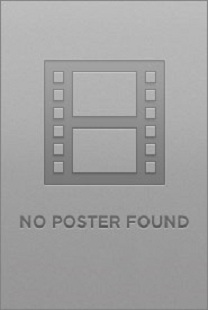
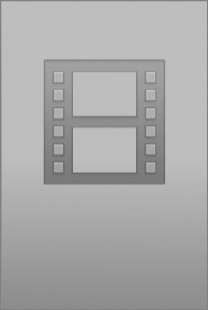
For some reason some of the changes from last checkin didn't take effect. Re-applying them now. Added some media queries to make the video tiles look better on smaller devices.

diff --git a/css/style.css b/css/style.css
@@ -45,36 +45,6 @@ body{
     position:relative;
 }
 
-.tile{
-    display:inline-block;
-    float:left;
-    border:2px solid white;
-    cursor:pointer;
-    margin: 10px;
-    width:205px;
-    height:350px;
-    overflow:hidden;
-    padding:2px;
-    border: 5px solid transparent;
-}
-
-.tile img{
-    /* cursor:pointer; */
-    border:0px solid white;
-    width: 100%;
-}
-.tile:hover{
-    background-color:#CCCCCC;
-    border-left:5px solid #CCCCCC;
-    border-right:5px solid #CCCCCC;
-
-}
-.tile span{
-    display:block;
-    font-size:20px;
-    text-align:center;
-}
-
 .radio{
     padding-left:0px;
 }
@@ -274,3 +244,104 @@ label{
 #videoInfoMainPoster{
     width:200px;
 }
+
+
+
+#video-container{
+    margin-right:auto;
+    margin-left:auto;
+    text-align:center;
+}
+
+div.video-tile{
+    /* display: inline; */
+    display: inline-block;
+    *zoom: 1;
+    *display: inline;
+    cursor:pointer;
+    margin: 0px;
+    width:150px;
+    height:220px;
+    overflow:hidden;
+    padding:2px;
+    border: 2px solid transparent;
+    position:relative;
+}
+
+.noPosterText{
+    position:absolute;
+    top:60%;
+    width:100%;
+    text-align:center;
+    font-weight: bold;
+    color: white;
+    text-shadow: 2px 2px #000000;
+    padding:10px;
+    font-size: 16px;
+}
+/* extra small devices (less than 768px)*/
+@media (max-width:767px) {
+    div.video-tile{
+        width:100px;
+        height:146px;
+    }
+    .noPosterText{
+        font-size:11px;
+        top:53%;
+    }
+}
+
+/* Small devices (tablets, 768px and up) */
+@media (min-width: 768px) { 
+    div.video-tile{
+        width:135px;
+        height:197px;
+    }
+    .noPosterText{
+        font-size:14px;
+    }
+}
+
+/* Medium devices (desktops, 992px and up) */
+@media (min-width: 992px){ 
+    div.video-tile{
+        width:174px;
+        height:256px;
+    }
+    .noPosterText{
+        font-size:16px;
+    }
+}
+
+/* Large devices (large desktops, 1200px and up) */
+@media (min-width: 1200px) {
+    div.video-tile{
+        width:210px;
+        height:310px;
+    }  
+    .noPosterText{
+        font-size:18px;
+    }
+}
+
+div.video-tile img.poster{
+    width:100%;
+    cursor:pointer;
+    border:0px solid white;
+}
+div.video-tile{
+    border:5px solid transparent;
+}
+div.video-tile:hover{
+    border:3px solid #AAAAAA;
+}
+
+div.video-tile span{
+    display:block;
+    text-align:center;
+}
+
+label, input[type=radio]{
+    cursor:pointer;
+}
+

diff --git a/Browse.markup.php b/Browse.markup.php
@@ -7,17 +7,17 @@
         <div class="tab-content">
         <?php } ?>
         <?php if ($mediaType === null || $mediaType === Enumerations::MediaType_Movie) { ?>
-            <div id="moviesPane" class="tab-pane active">
+            <div id="moviesPane" class="tab-pane active video-container">
                 <h2>Movies</h2> 
                 <?php
-                foreach ($movies as $movie) {
+                foreach ($movies as $video) {
                     ?>
-                    <div class="tile">
-                        <span>
-                            <a title='Play Movie' href="Play.php?videoId=<?php echo $movie->videoId; ?>" title="View movie information"><?php echo $movie->title; ?></a>
-                            <!--<a style="cursor:pointer;" onclick="addToPlaylist(<?php echo $movie->videoId; ?>);" title="Add to a playlist">+</a>-->
+                    <div class="video-tile">
+                        <?php if($video->hasPoster === false){?>
+                        <span class="noPosterText"><?php echo $video->title; ?></span>
+                        <?php }?>
                         </span>
-                        <a href="VideoInfo.php?videoId=<?php echo $movie->videoId; ?>"><img class="tileImg" src="<?php echo $movie->hdPosterUrl; ?>"/></a>
+                        <a href="VideoInfo.php?videoId=<?php echo $video->videoId; ?>"><img class="poster" src="<?php echo $video->hdPosterUrl; ?>"/></a>
                     </div>
                     <?php
                 }
@@ -25,19 +25,17 @@
             </div>
         <?php } ?>
         <?php if ($mediaType === null || $mediaType === Enumerations::MediaType_TvShow) { ?>
-            <div id="tvShowsPane" class="tab-pane">
+            <div id="tvShowsPane" class="tab-pane video-container">
                 <h2>Tv Shows</h2>
                 <?php
-                foreach ($tvShows as $tvShow) {
-                    $modalId = "modal-" . md5($tvShow->title);
+                foreach ($tvShows as $video) {
+                    $modalId = "modal-" . md5($video->title);
                     ?>
-                    <div class="tile" >
-                        <span>
-                            <a title='Play Tv Show' href="Play.php?playType=series&videoId=<?php echo $tvShow->videoId; ?>"><?php echo $tvShow->title; ?></a>
-                            <!--<a style="cursor:pointer;" onclick="addToPlaylist(<?php echo $tvShow->videoId; ?>);" title="Add to a playlist">+</a>-->
-                        </span>
-
-                        <a href="VideoInfo.php?videoId=<?php echo $tvShow->videoId; ?>"><img src="<?php echo $tvShow->hdPosterUrl; ?>"/></a>
+                    <div class="video-tile" >
+                         <?php if($video->hasPoster === false){?>
+                        <span class="noPosterText"><?php echo $video->title; ?></span>
+                        <?php }?>
+                        <a href="VideoInfo.php?videoId=<?php echo $video->videoId; ?>"><img class="poster" src="<?php echo $video->hdPosterUrl; ?>"/></a>
                         </a>
                     </div>
                 <?php } ?>

diff --git a/code/Video.class.php b/code/Video.class.php
@@ -480,6 +480,8 @@ abstract class Video {
         $this->sdPosterUrl = $this->getActualSdPosterUrl();
         $this->runtime = $this->getLengthInSeconds();
         $this->title = '' . $this->title;
+        //if this video has the "no poster found" poster, then mark on this video that it doesn't have a poster
+        $this->hasPoster = $this->posterExists();
         unset($this->_runtime);
     }
 
